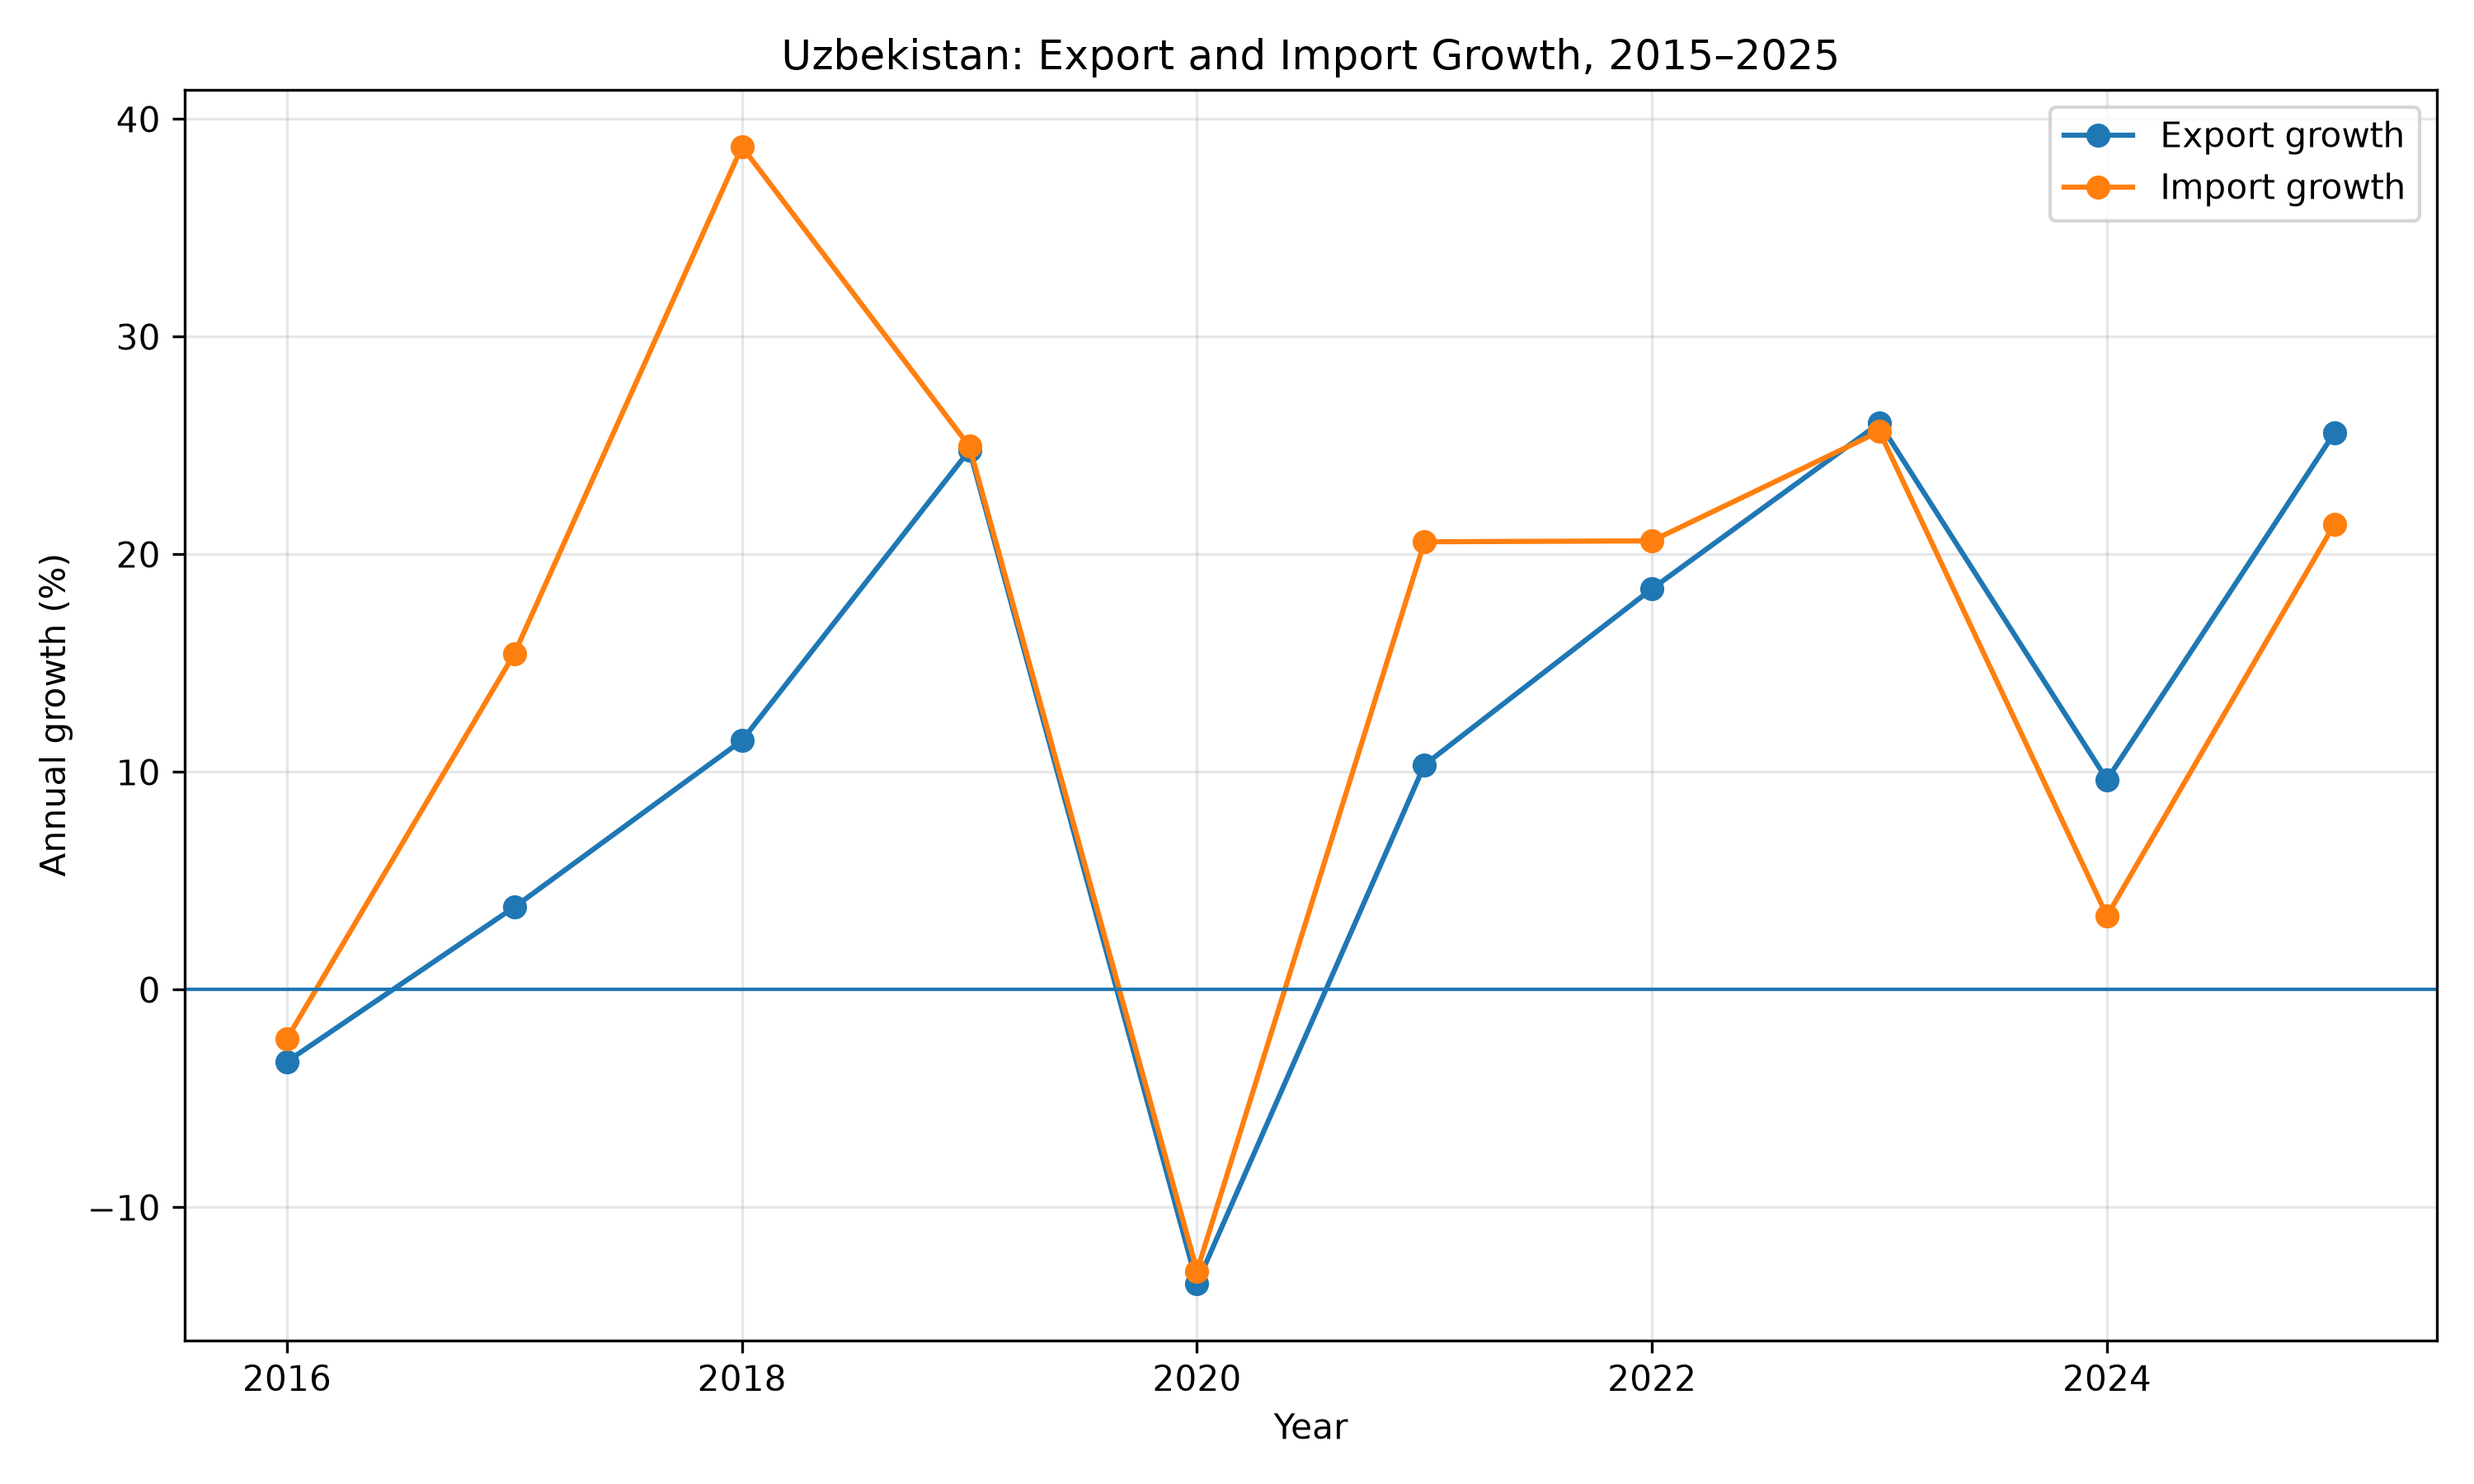
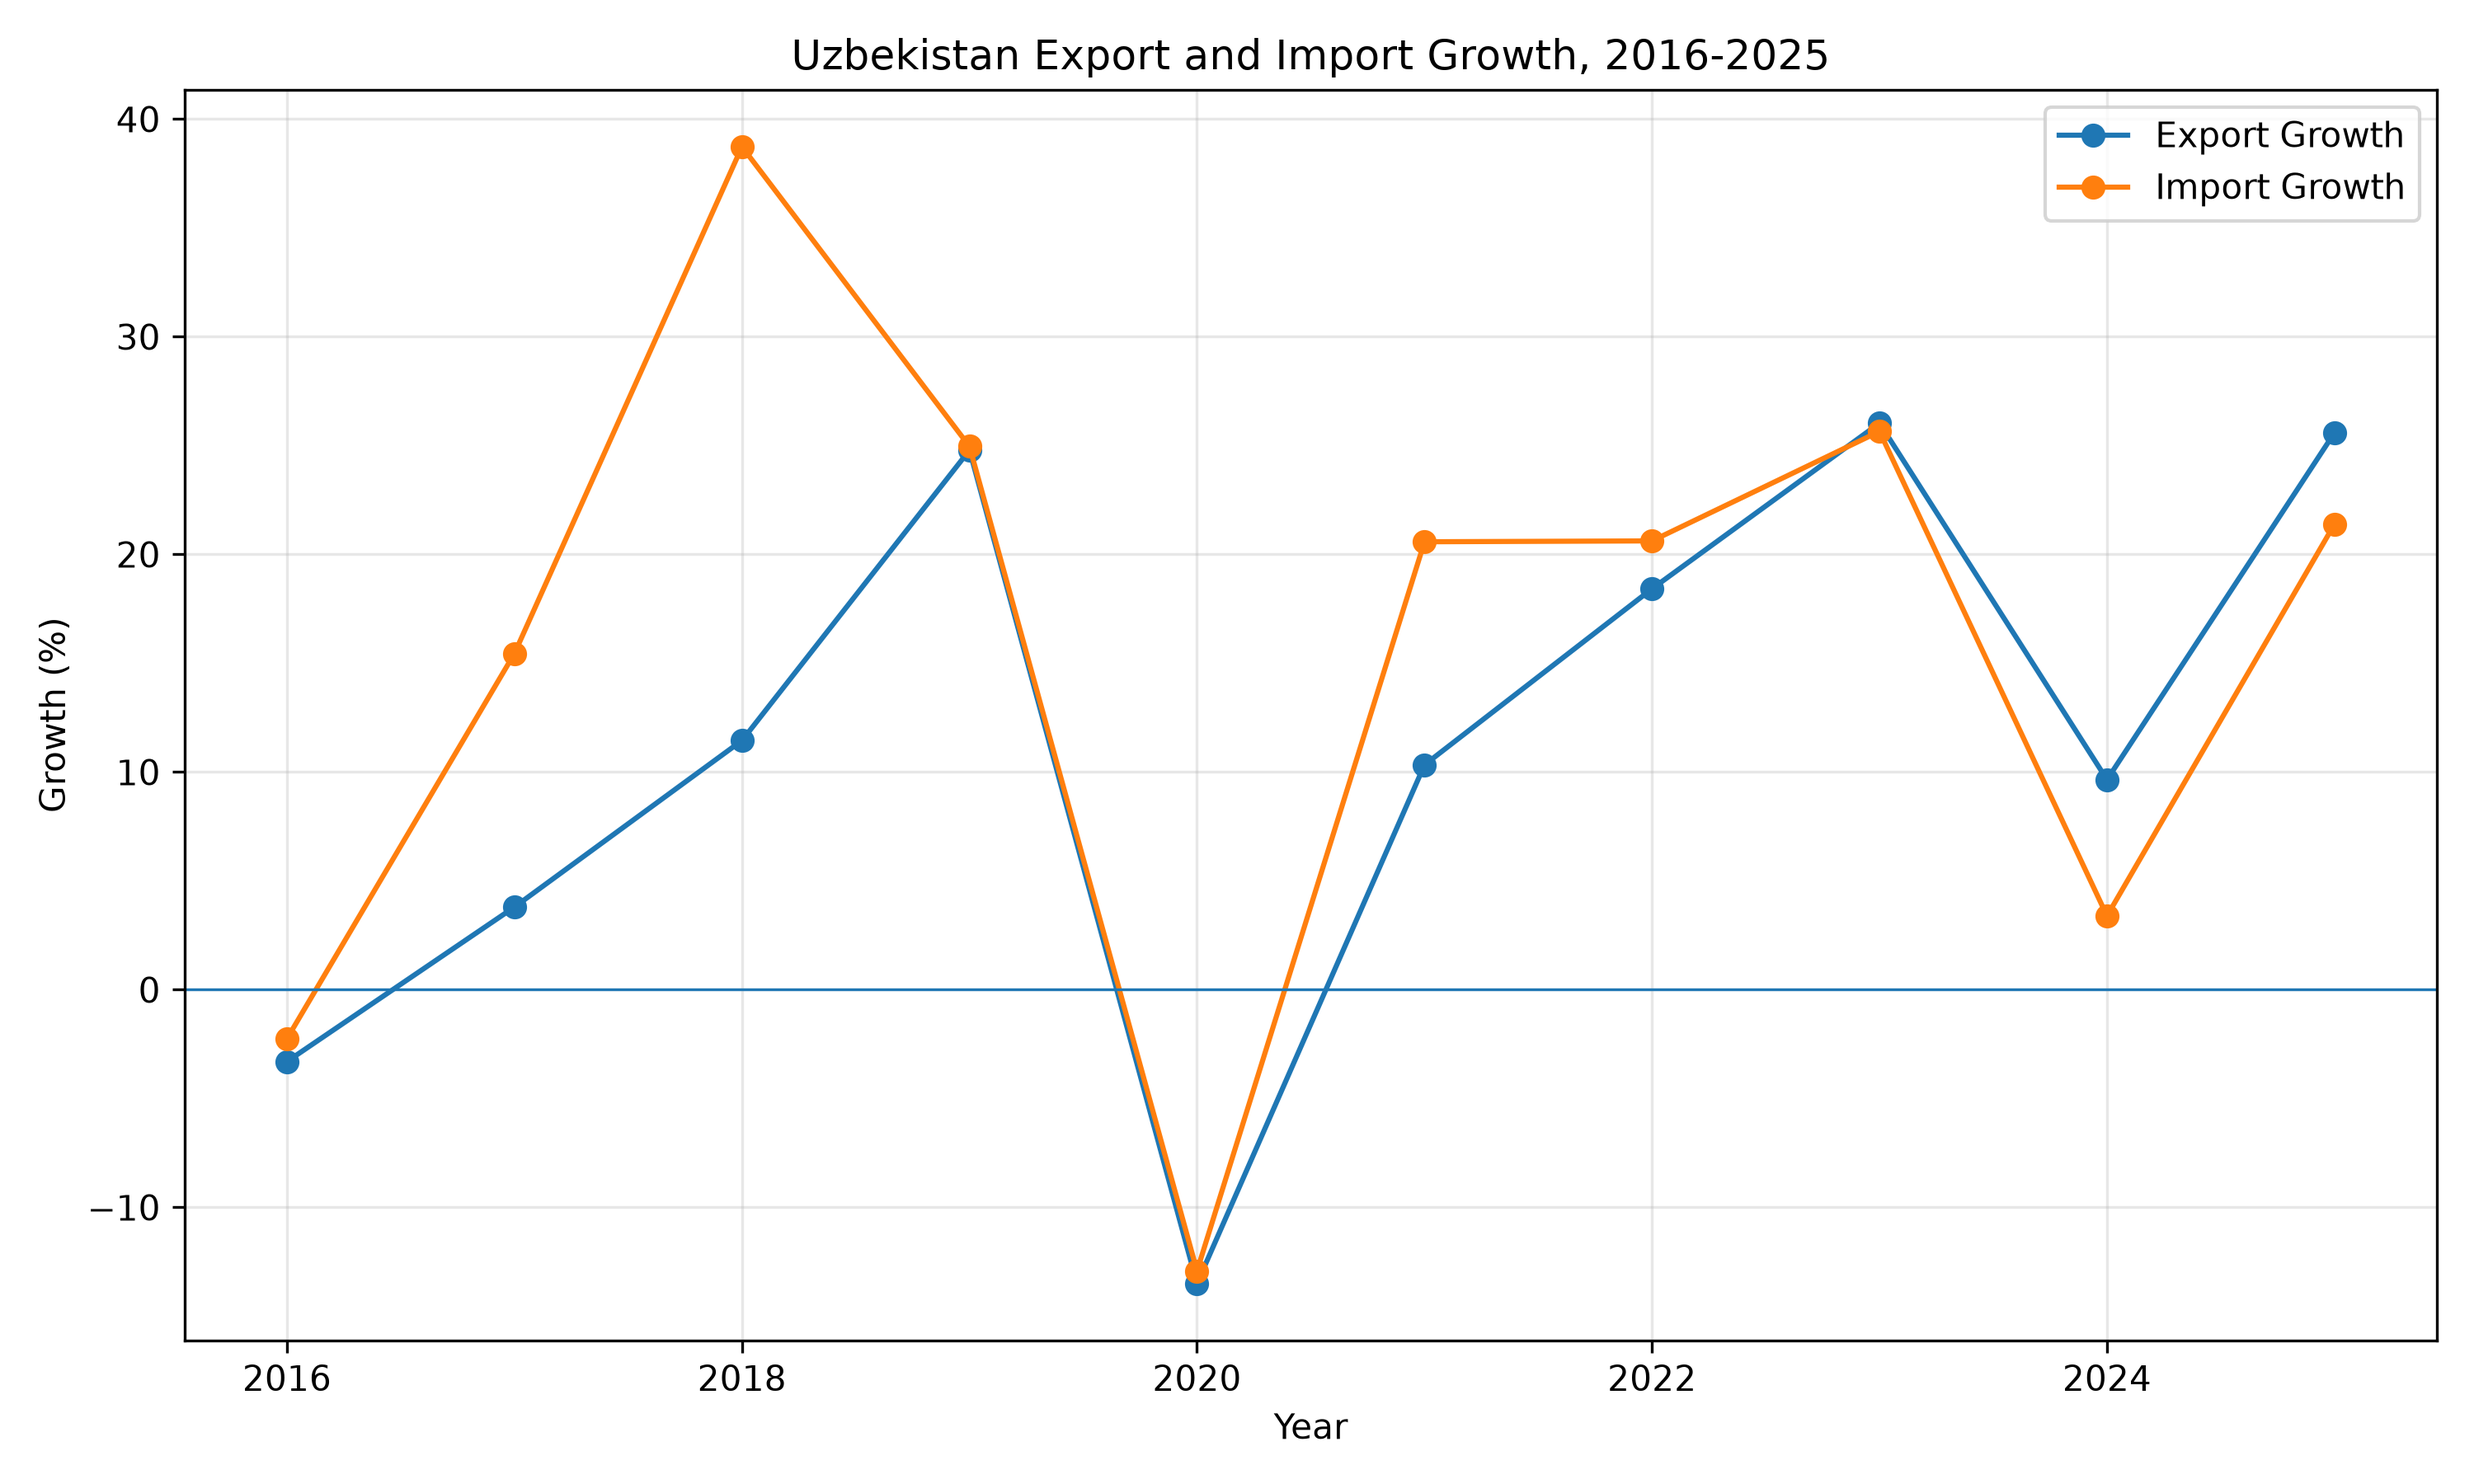
Fix trade growth chart output

Changed region(s): [[0.31, 0.0311, 0.744, 0.0622], [0.0, 0.3733, 0.031, 0.5911], [0.868, 0.0622, 0.93, 0.1556]]

diff --git a/analysis/trade_growth_analysis.py b/analysis/trade_growth_analysis.py
@@ -29,7 +29,7 @@ plt.plot(
 
 plt.axhline(0, linewidth=0.8)
 
-plt.title("Uzbekistan Export and Import Growth, 2016–2025")
+plt.title("Uzbekistan Export and Import Growth, 2016-2025")
 plt.xlabel("Year")
 plt.ylabel("Growth (%)")
 plt.legend()
@@ -38,6 +38,6 @@ plt.grid(True, alpha=0.3)
 plt.tight_layout()
 
 # Save the chart
-plt.savefig("charts/trade_growth_2016_2025.png", dpi=300)
+plt.savefig("charts/trade_growth_2015_2025.png", dpi=300)
 
 plt.show()
